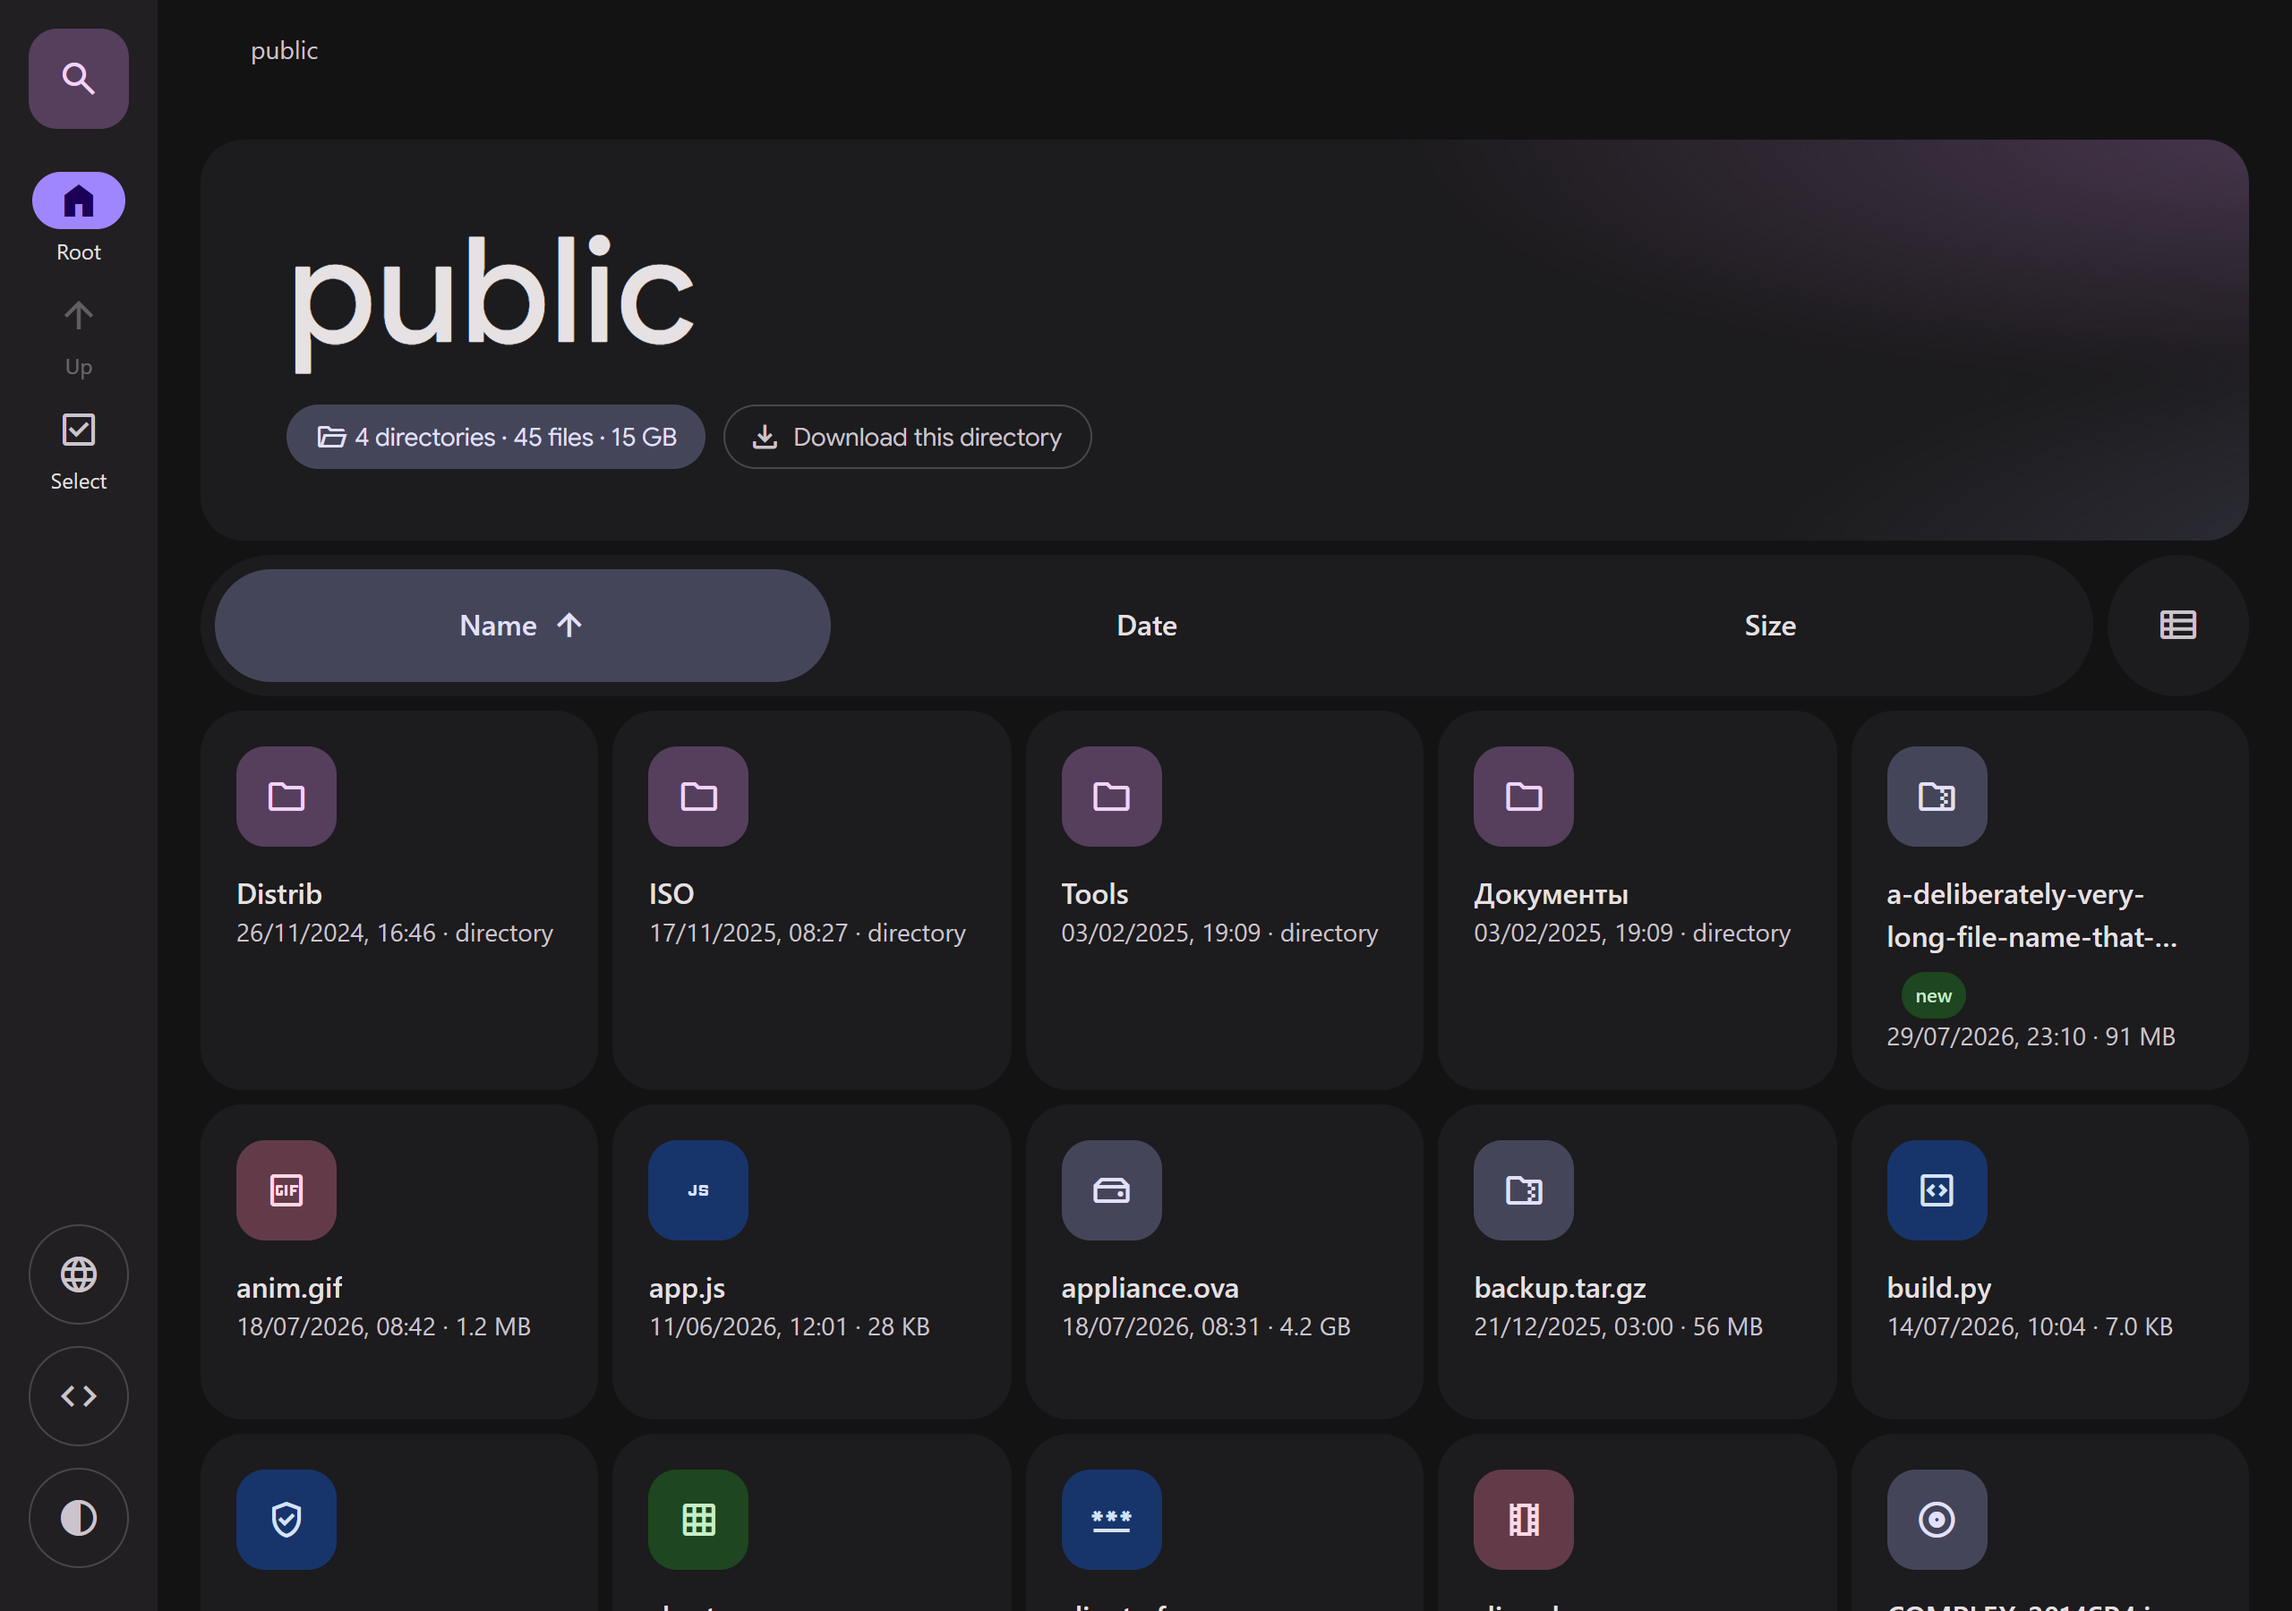
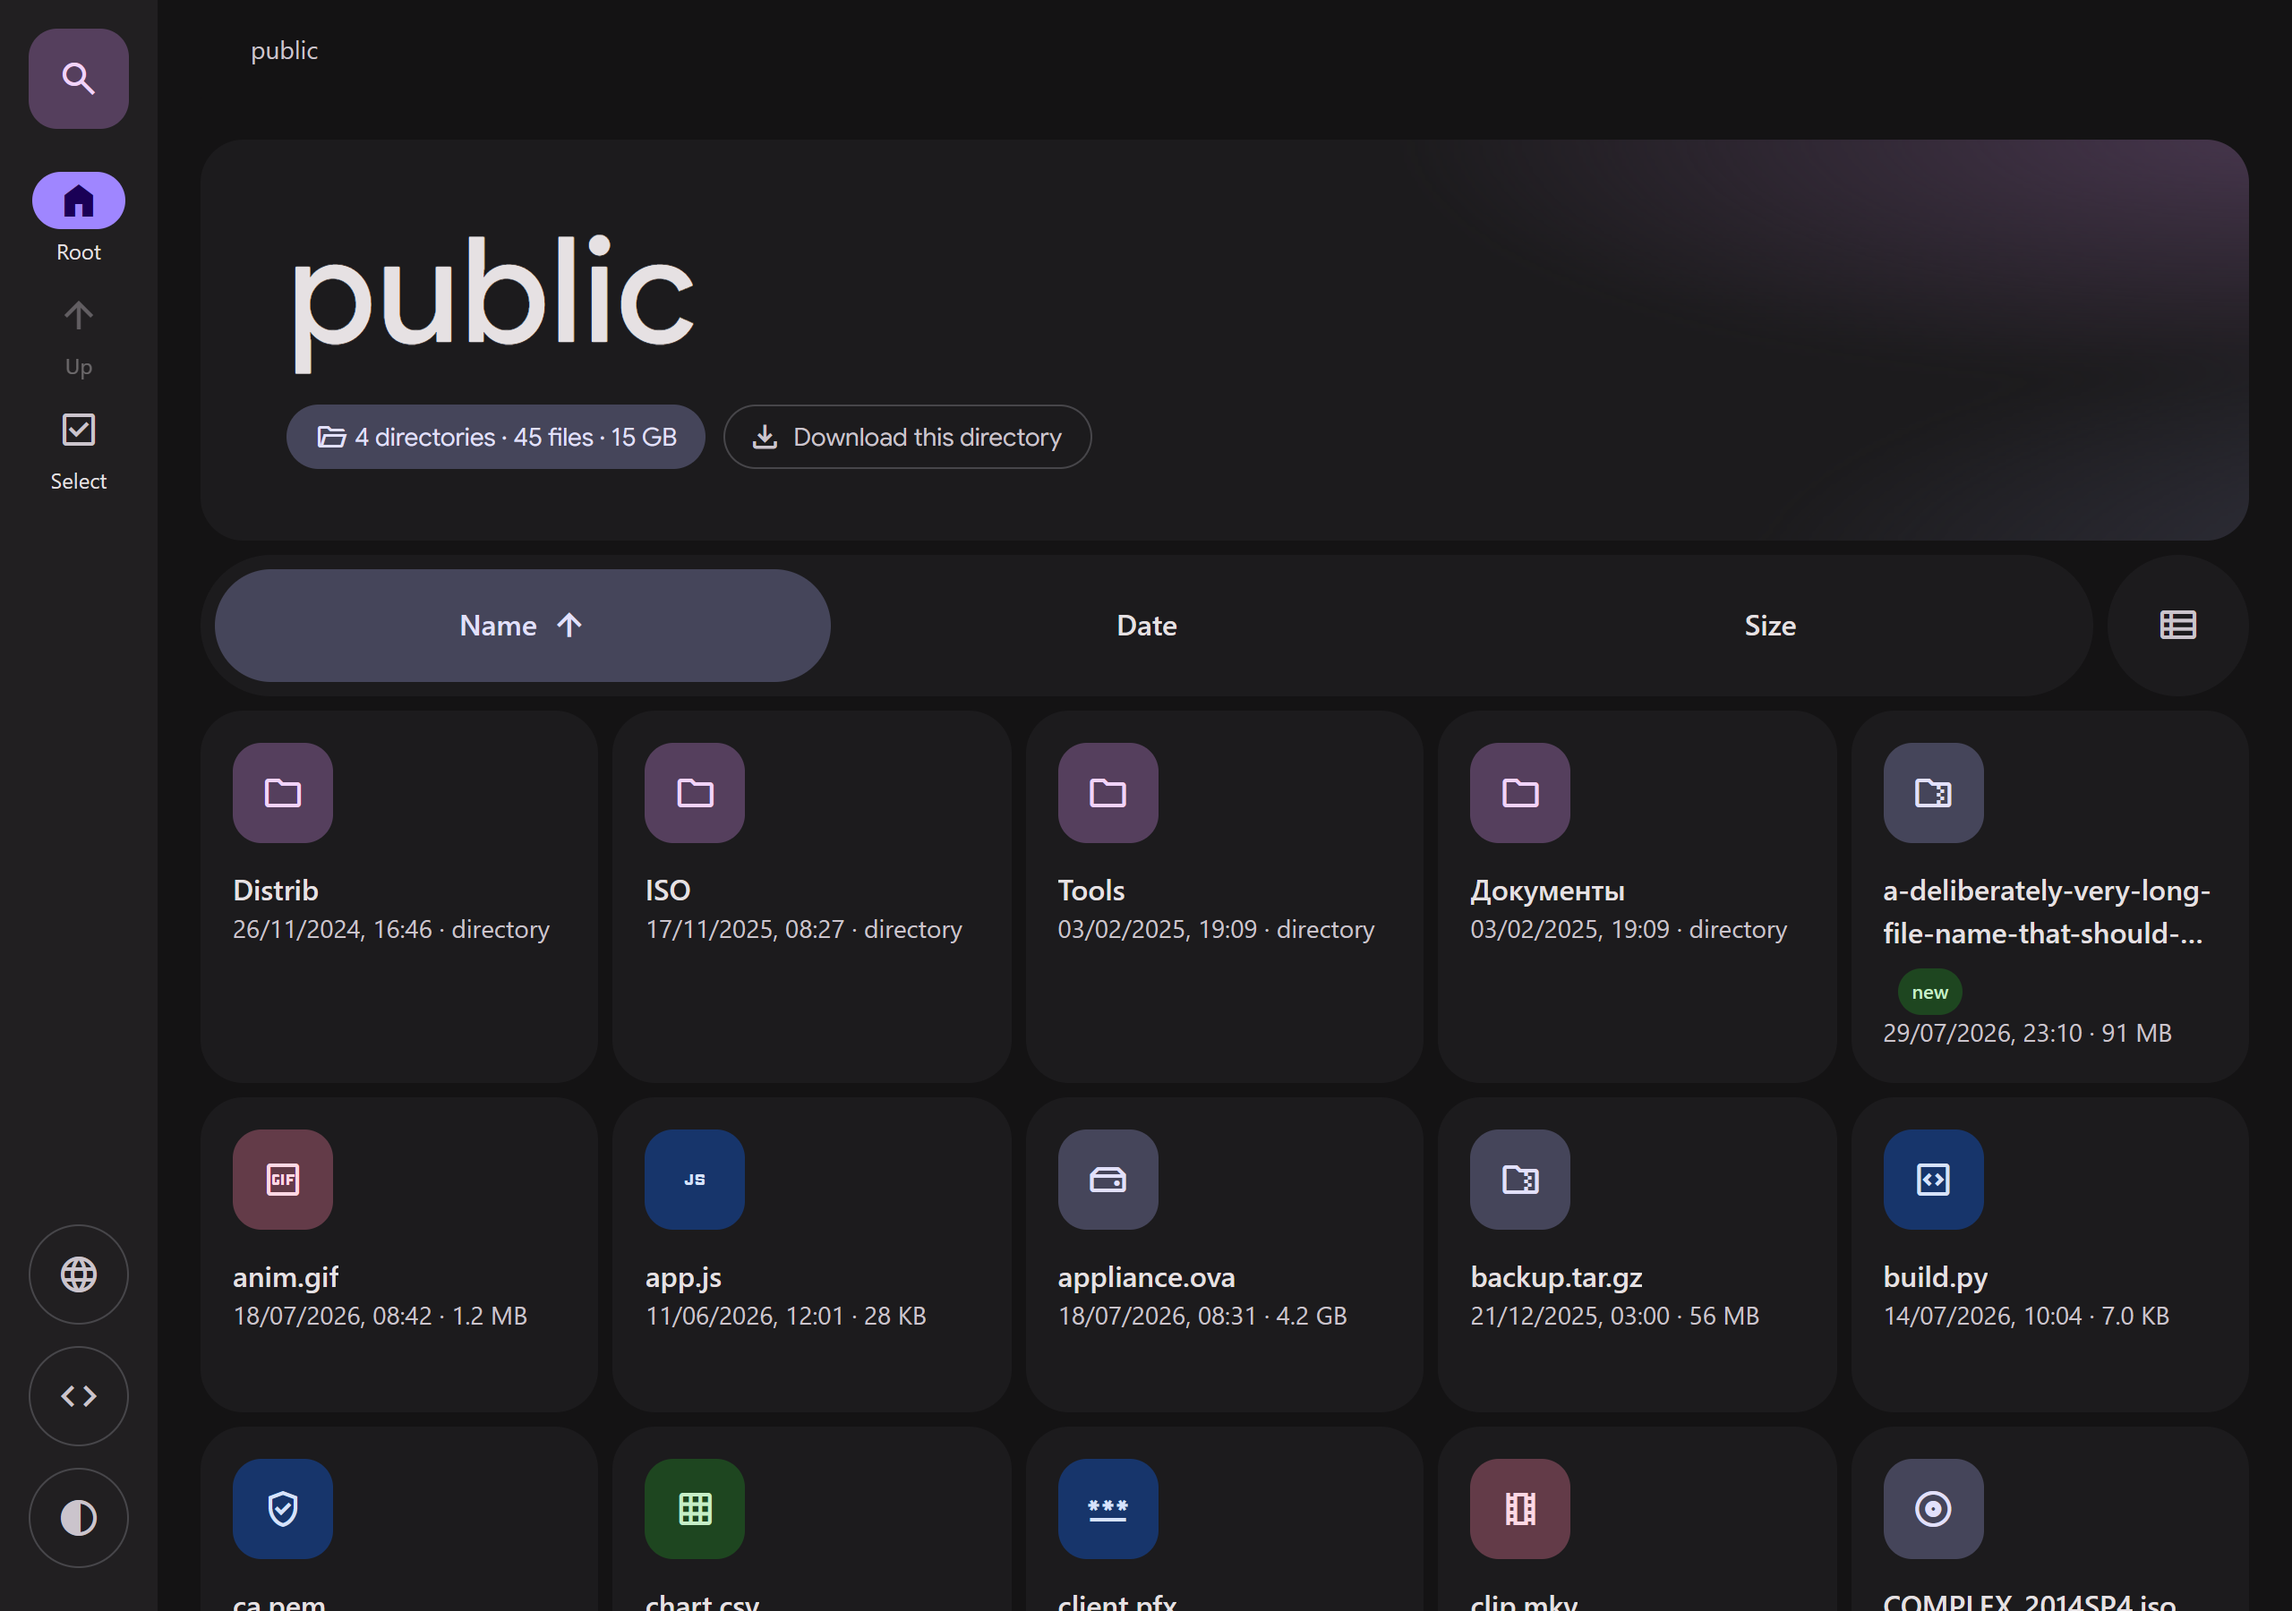
Grid cards: actions share the top line with the chip instead of covering it
The per-row buttons were pinned to the card's top-right corner, which put
them straight over the thumbnail — the one part of a card anyone is
looking at. The card is a two-line grid now: chip and actions on the
first line, name and meta on the second, so hovering reveals the buttons
beside the picture rather than on top of it.

Columns widen to 216px and the buttons shrink to 36px, which is what it
takes for a 56px chip and three actions to sit side by side; if a column
is ever narrower still, they wrap to a second line instead of being
clipped by the card.

diff --git a/dist/m3listing.css b/dist/m3listing.css
@@ -845,18 +845,36 @@ html:not(.gs-ready) .gs { visibility: hidden; }
    --------------------------------------------------------------- */
 .list.grid {
   display: grid;
-  grid-template-columns: repeat(auto-fill, minmax(190px, 1fr));
+  /* wide enough for the chip and the row's actions to share the top line
+     without touching — see below */
+  grid-template-columns: repeat(auto-fill, minmax(216px, 1fr));
   gap: 8px;
 }
+/* A card is two lines: the chip and the actions share the first, the name
+   and meta take the second. The actions used to be pinned to the card's
+   top-right corner, which laid them over the thumbnail — the one part of
+   a card you are looking at. */
 .list.grid .item {
-  flex-direction: column;
-  align-items: flex-start;
-  gap: 14px;
-  padding: 20px;
+  display: grid;
+  grid-template-columns: auto 1fr;
+  align-content: start;
+  gap: 14px 8px;
+  padding: 18px;
   border-radius: var(--r-card) !important;
   min-height: 176px;
 }
-.list.grid .item__body { width: 100%; }
+.list.grid .item__ico { grid-area: 1 / 1; }
+.list.grid .item__tail {
+  grid-area: 1 / 2;
+  justify-self: end;
+  align-self: center;
+  /* if a narrower column ever does squeeze them, they drop to a second
+     line instead of being clipped by the card */
+  flex-wrap: wrap;
+  justify-content: flex-end;
+}
+.list.grid .item__tail .iconbtn { width: 36px; height: 36px; }
+.list.grid .item__body { grid-area: 2 / 1 / 3 / 3; width: 100%; }
 .list.grid .item__title { flex-wrap: wrap; }
 .list.grid .item__name {
   white-space: normal;
@@ -865,7 +883,6 @@ html:not(.gs-ready) .gs { visibility: hidden; }
   -webkit-box-orient: vertical;
 }
 .list.grid .item__meta { white-space: normal; }
-.list.grid .item__tail { position: absolute; top: 12px; right: 10px; }
 .list.grid .item__chev { display: none; }
 
 /* ---------------------------------------------------------------

diff --git a/dist/top.html b/dist/top.html
@@ -11,7 +11,7 @@
 <link rel="preconnect" href="https://fonts.gstatic.com" crossorigin>
 <!-- bump ?v= on every asset change: proxies and browsers cache these, and a
      stale css/js pair is the one way this can break after an update -->
-<link rel="stylesheet" href="/.m3listing/m3listing.css?v=8">
+<link rel="stylesheet" href="/.m3listing/m3listing.css?v=9">
 
 <script>
 /* Runs before paint: marks the document as JS-capable (so a no-JS client
@@ -32,8 +32,8 @@ window.M3LISTING = {
 };
 /* --------------------------------------------------------------------- */
 </script>
-<script defer src="/.m3listing/m3listing-probe.js?v=8"></script>
-<script defer src="/.m3listing/m3listing.js?v=8"></script>
+<script defer src="/.m3listing/m3listing-probe.js?v=9"></script>
+<script defer src="/.m3listing/m3listing.js?v=9"></script>
 </head>
 
 <body>
